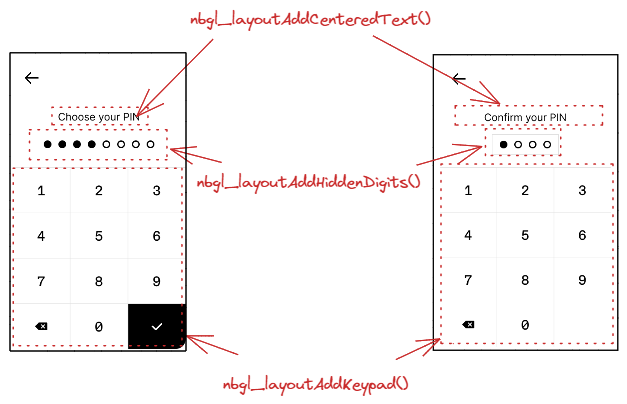
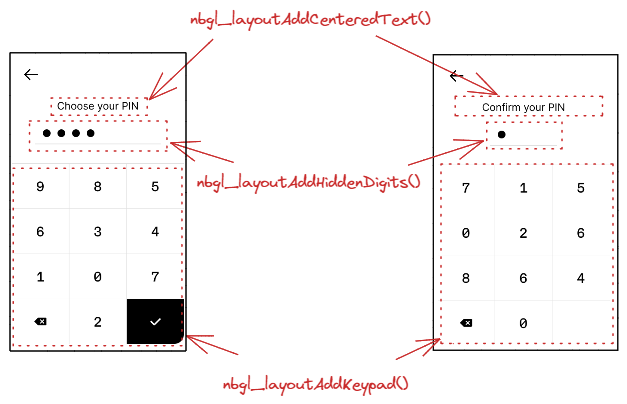
Stax - Update PIN screen design

diff --git a/lib_nbgl/src/nbgl_layout.c b/lib_nbgl/src/nbgl_layout.c
@@ -2421,56 +2421,68 @@ int nbgl_layoutUpdateKeypad(nbgl_layout_t *layout, uint8_t index, bool enableVal
 }
 
 /**
- * @brief Adds a set of hidden digits on top of a keypad, to represent the entered digits, as full/empty circles
- *        The set can be bordered with a gray rounded corners rectangle
+ * @brief Adds a placeholder for hidden digits on top of a keypad, to represent the entered digits, as full circles
+ *        The placeholder is "underligned" with a thin horizontal line of the expected full length
  *
  * @note It must be the last added object, after potential back key, title, and keypad. Vertical positions of title and hidden digits will be computed here
  *
  * @param layout the current layout
  * @param nbDigits number of digits to be displayed
- * @param bordered if true, the set is bordered with a gray rounded corners rectangle
  * @return the index of digits set, to use in @ref nbgl_layoutUpdateHiddenDigits()
  */
-int nbgl_layoutAddHiddenDigits(nbgl_layout_t *layout, uint8_t nbDigits, bool bordered) {
+int nbgl_layoutAddHiddenDigits(nbgl_layout_t *layout, uint8_t nbDigits) {
   nbgl_layoutInternal_t *layoutInt = (nbgl_layoutInternal_t *)layout;
-  nbgl_panel_t *panel;
+  nbgl_container_t *container;
+  nbgl_line_t *line;
 
   LOG_DEBUG(LAYOUT_LOGGER,"nbgl_layoutAddHiddenDigits():\n");
   if (layout == NULL)
     return -1;
 
-  // create a panel, invisible or bordered
-  panel = (nbgl_panel_t*)nbgl_objPoolGet(PANEL,layoutInt->layer);
-  panel->nbChildren = nbDigits;
-  panel->children = nbgl_containerPoolGet(panel->nbChildren, layoutInt->layer);
-  panel->borderColor = bordered ? LIGHT_GRAY : WHITE;
-  panel->width = nbDigits*C_circle_24px.width + (nbDigits+1)*8;
-  panel->height = 48;
+  // create a container, invisible or bordered
+  container = (nbgl_container_t*)nbgl_objPoolGet(CONTAINER,layoutInt->layer);
+  container->nbChildren = nbDigits+1; // +1 for the line
+  container->children = nbgl_containerPoolGet(container->nbChildren, layoutInt->layer);
+  // 12 pixels between each icon (knowing that the effective round are 18px large and the icon 24px)
+  container->width = nbDigits*C_round_24px.width + (nbDigits+1)*12;
+  container->height = 48;
   // distance from digits to title is fixed to 24 px
-  panel->alignmentMarginY = 24;
+  container->alignmentMarginY = 24;
   // item N-2 is the title
-  panel->alignTo = layoutInt->container->children[layoutInt->container->nbChildren-2];
-  panel->alignment = BOTTOM_MIDDLE;
+  container->alignTo = layoutInt->container->children[layoutInt->container->nbChildren-2];
+  container->alignment = BOTTOM_MIDDLE;
 
   // set this new container as child of the main container
-  addObjectToLayout(layoutInt,(nbgl_obj_t*)panel);
+  addObjectToLayout(layoutInt,(nbgl_obj_t*)container);
 
-  // create children of the panel, as images (empty circles)
-  nbgl_objPoolGetArray(IMAGE,nbDigits,layoutInt->layer,(nbgl_obj_t**)panel->children);
+  // create children of the container, as images (empty circles)
+  nbgl_objPoolGetArray(IMAGE,nbDigits,layoutInt->layer,(nbgl_obj_t**)container->children);
   for (int i=0;i<nbDigits;i++) {
-    nbgl_image_t* image = (nbgl_image_t*)panel->children[i];
-    image->buffer = &C_circle_24px;
-    image->foregroundColor = BLACK;
-    image->alignmentMarginX = 8;
+    nbgl_image_t* image = (nbgl_image_t*)container->children[i];
+    image->buffer = &C_round_24px;
+    image->foregroundColor = WHITE;
+    image->alignmentMarginX = 12;
     if (i>0) {
       image->alignment = MID_RIGHT;
-      image->alignTo = (nbgl_obj_t*)panel->children[i-1];
+      image->alignTo = (nbgl_obj_t*)container->children[i-1];
     }
     else {
       image->alignment = NO_ALIGNMENT;
-      image->alignmentMarginY = (panel->height - C_circle_24px.width)/2;
+      image->alignmentMarginY = (container->height - C_round_24px.width)/2;
     }
   }
+  // create gray line
+  line = (nbgl_line_t*)nbgl_objPoolGet(LINE, layoutInt->layer);
+  line->lineColor = LIGHT_GRAY;
+  line->alignmentMarginY = 0;
+  line->alignTo = NULL;
+  line->alignment = BOTTOM_MIDDLE;
+  line->width = container->width;
+  line->height = 4;
+  line->direction = HORIZONTAL;
+  line->thickness = 2;
+  line->offset = 2;
+  container->children[nbDigits] = (nbgl_obj_t*)line;
 
   // return index of keypad to be modified later on
   return (layoutInt->container->nbChildren-1);
@@ -2486,48 +2498,49 @@ int nbgl_layoutAddHiddenDigits(nbgl_layout_t *layout, uint8_t nbDigits, bool bor
  */
 int nbgl_layoutUpdateHiddenDigits(nbgl_layout_t *layout, uint8_t index, uint8_t nbActive) {
   nbgl_layoutInternal_t *layoutInt = (nbgl_layoutInternal_t *)layout;
-  nbgl_panel_t *panel;
+  nbgl_container_t *container;
   nbgl_image_t* image;
 
   LOG_DEBUG(LAYOUT_LOGGER,"nbgl_layoutUpdateHiddenDigits(): nbActive = %d\n",nbActive);
   if (layout == NULL)
     return -1;
 
-  // get panel
-  panel = (nbgl_panel_t*)layoutInt->container->children[index];
+  // get container
+  container = (nbgl_container_t*)layoutInt->container->children[index];
   // sanity check
-  if ((panel == NULL) || (panel->type != PANEL)) {
+  if ((container == NULL) || (container->type != CONTAINER)) {
     return -1;
   }
-  if (nbActive > panel->nbChildren) {
+  if (nbActive > container->nbChildren) {
     return -1;
   }
   if (nbActive == 0) {
     // deactivate the first digit
-    image = (nbgl_image_t*)panel->children[0];
+    image = (nbgl_image_t*)container->children[0];
     if ((image == NULL) || (image->type != IMAGE)) {
       return -1;
     }
-    image->buffer = &C_circle_24px;
+    image->foregroundColor = WHITE;
   }
   else {
-    image = (nbgl_image_t*)panel->children[nbActive-1];
+    image = (nbgl_image_t*)container->children[nbActive-1];
     if ((image == NULL) || (image->type != IMAGE)) {
       return -1;
     }
     // if the last "active" is already active, it means that we are decreasing the number of active
     // otherwise we are increasing it
-    if (image->buffer == &C_round_24px) {
+    if (image->foregroundColor == BLACK) {
       // all digits are already active
-      if (nbActive == panel->nbChildren) {
+      if (nbActive == container->nbChildren) {
         return 0;
       }
       // deactivate the next digit
-      image = (nbgl_image_t*)panel->children[nbActive];
-      image->buffer = &C_circle_24px;
+      image = (nbgl_image_t*)container->children[nbActive];
+      image->foregroundColor = WHITE;
     }
     else {
       image->buffer = &C_round_24px;
+      image->foregroundColor = BLACK;
     }
   }
 

diff --git a/lib_nbgl/src/nbgl_obj_keypad.c b/lib_nbgl/src/nbgl_obj_keypad.c
@@ -183,7 +183,7 @@ static void keypadDrawDigits(nbgl_keypad_t *keypad) {
     rectArea.x0 += (KEY_WIDTH-nbgl_getCharWidth(BAGL_FONT_HM_ALPHA_MONO_MEDIUM_32px,&key_value))/2;
     nbgl_drawText(&rectArea, &key_value,
                   1, BAGL_FONT_HM_ALPHA_MONO_MEDIUM_32px,
-                  BLACK);
+                  keypad->enableDigits ? BLACK :  WHITE);
   }
   // Second row: 4 5 6
   rectArea.y0 += KEYPAD_KEY_HEIGHT;
@@ -193,7 +193,7 @@ static void keypadDrawDigits(nbgl_keypad_t *keypad) {
     rectArea.x0 += (KEY_WIDTH-nbgl_getCharWidth(BAGL_FONT_HM_ALPHA_MONO_MEDIUM_32px,&key_value))/2;
     nbgl_drawText(&rectArea, &key_value,
                   1, BAGL_FONT_HM_ALPHA_MONO_MEDIUM_32px,
-                  BLACK);
+                  keypad->enableDigits ? BLACK :  WHITE);
   }
   // Third row: 7 8 9
   rectArea.y0 += KEYPAD_KEY_HEIGHT;
@@ -203,7 +203,7 @@ static void keypadDrawDigits(nbgl_keypad_t *keypad) {
     rectArea.x0 += (KEY_WIDTH-nbgl_getCharWidth(BAGL_FONT_HM_ALPHA_MONO_MEDIUM_32px,&key_value))/2;
     nbgl_drawText(&rectArea, &key_value,
                   1, BAGL_FONT_HM_ALPHA_MONO_MEDIUM_32px,
-                  BLACK);
+                  keypad->enableDigits ? BLACK :  WHITE);
   }
   // 4th raw, Backspace, 0 and Validate
   // draw backspace
@@ -221,7 +221,7 @@ static void keypadDrawDigits(nbgl_keypad_t *keypad) {
   rectArea.y0 = keypad->y0 + KEYPAD_KEY_HEIGHT*3 + DIGIT_OFFSET_Y;
   nbgl_drawText(&rectArea, &key_value,
                 1, BAGL_FONT_HM_ALPHA_MONO_MEDIUM_32px,
-                BLACK);
+                keypad->enableDigits ? BLACK :  WHITE);
 
   // draw validate on gray with white background if not enabled
   if (!keypad->enableValidate) {

diff --git a/lib_nbgl/src/nbgl_obj.c b/lib_nbgl/src/nbgl_obj.c
@@ -242,15 +242,6 @@ static void draw_container(nbgl_container_t* obj, nbgl_obj_t *prevObj, bool comp
   }
 }
 
-static void draw_panel(nbgl_panel_t* obj, nbgl_obj_t *prevObj, bool computePosition) {
-  // panel inherits from container
-  draw_container((nbgl_container_t*)obj, prevObj, computePosition);
-  LOG_DEBUG(OBJ_LOGGER,"draw_panel(), x0 = %d, y0 = %d\n", obj->x0, obj->y0);
-  nbgl_drawRoundedBorderedRect((nbgl_area_t*)obj,
-                            RADIUS_8_PIXELS, 2,
-                            WHITE, obj->borderColor);
-}
-
 /**
  * @brief internal function used to draw a button
  * @note The button contains an icon AND/OR a single-line UTF-8 text
@@ -985,9 +976,6 @@ static void draw_object(nbgl_obj_t *obj, nbgl_obj_t *prevObj, bool computePositi
     case CONTAINER:
       draw_container((nbgl_container_t*)obj, prevObj, computePosition);
       break;
-    case PANEL:
-      draw_panel((nbgl_panel_t*)obj, prevObj, computePosition);
-      break;
     case BUTTON:
       draw_button((nbgl_button_t*)obj, prevObj, computePosition);
       break;
@@ -1096,8 +1084,7 @@ void nbgl_redrawObject(nbgl_obj_t *obj, nbgl_obj_t *prevObj, bool computePositio
   draw_object(obj,prevObj,computePosition);
 
   if ((obj->type == SCREEN) ||
-      (obj->type == CONTAINER) ||
-      (obj->type == PANEL)) {
+      (obj->type == CONTAINER)) {
     nbgl_container_t *container = (nbgl_container_t *)obj;
     nbgl_obj_t *prev = NULL;
     LOG_DEBUG(OBJ_LOGGER,"nbgl_redrawObject(): container->children = %p\n",container->children);

diff --git a/lib_nbgl/include/nbgl_obj.h b/lib_nbgl/include/nbgl_obj.h
@@ -54,7 +54,6 @@ extern "C" {
 typedef enum  {
     SCREEN,         ///< Main screen
     CONTAINER,      ///< Empty container
-    PANEL,          ///< Container with special border
     IMAGE,          ///< Bitmap (x and width must be multiple of 4)
     LINE,           ///< Vertical or Horizontal line
     TEXT_AREA,      ///< Area to contain text line(s)
@@ -212,16 +211,6 @@ typedef struct PACKED__ nbgl_container_s {
     bool forceClean; ///< if set to true, a paint will be done with background color
     struct nbgl_obj_s **children; ///< children of this object (nbChildren size)
 } nbgl_container_t;
-
-/**
- * @brief struct to represent a panel (@ref PANEL type)
- * @note inherits from container
- *
- */
-typedef struct PACKED__ nbgl_panel_s {
-    struct nbgl_container_s; ///<  common part
-    color_t borderColor; ///<  color of the border of the panel
-} nbgl_panel_t;
 
 /**
  * @brief struct to represent a vertical or horizontal line

diff --git a/lib_nbgl/include/nbgl_layout.h b/lib_nbgl/include/nbgl_layout.h
@@ -311,7 +311,7 @@ int nbgl_layoutUpdateConfirmationButton(nbgl_layout_t *layout, uint8_t index, bo
 /* layout objects for page with keypad */
 int nbgl_layoutAddKeypad(nbgl_layout_t *layout, keyboardCallback_t callback, bool shuffled);
 int nbgl_layoutUpdateKeypad(nbgl_layout_t *layout, uint8_t index, bool enableValidate, bool enableBackspace, bool enableDigits);
-int nbgl_layoutAddHiddenDigits(nbgl_layout_t *layout, uint8_t nbDigits, bool bordered);
+int nbgl_layoutAddHiddenDigits(nbgl_layout_t *layout, uint8_t nbDigits);
 int nbgl_layoutUpdateHiddenDigits(nbgl_layout_t *layout, uint8_t index, uint8_t nbActive);
 #endif // NBGL_KEYPAD
 

diff --git a/lib_nbgl/src/nbgl_touch.c b/lib_nbgl/src/nbgl_touch.c
@@ -79,8 +79,7 @@ static nbgl_obj_t * getTouchedObject(nbgl_obj_t *obj, nbgl_touchStatePosition_t 
     return NULL;
   }
   if ((obj->type == SCREEN) ||
-      (obj->type == CONTAINER) ||
-      (obj->type == PANEL)) {
+      (obj->type == CONTAINER)) {
     nbgl_container_t *container = (nbgl_container_t *)obj;
     // parse the children, if any
     if (container->children != NULL) {

diff --git a/lib_nbgl/src/nbgl_screen.c b/lib_nbgl/src/nbgl_screen.c
@@ -371,8 +371,7 @@ static bool objIsIn(nbgl_obj_t *refObj, nbgl_obj_t *obj) {
   }
 
   if ((refObj->type == SCREEN) ||
-      (refObj->type == CONTAINER) ||
-      (refObj->type == PANEL)) {
+      (refObj->type == CONTAINER)) {
     nbgl_container_t *container = (nbgl_container_t *)refObj;
     // draw the children, if any
     if (container->children != NULL) {

diff --git a/lib_nbgl/src/nbgl_obj_pool.c b/lib_nbgl/src/nbgl_obj_pool.c
@@ -45,7 +45,6 @@ typedef struct {
     nbgl_container_t containerObj;
     nbgl_image_t imageObj;
     nbgl_line_t lineObj;
-    nbgl_panel_t panelObj;
     nbgl_keyboard_t keyboardObj;
     nbgl_keypad_t keypadObj;
     nbgl_spinner_t spinnerObj;
